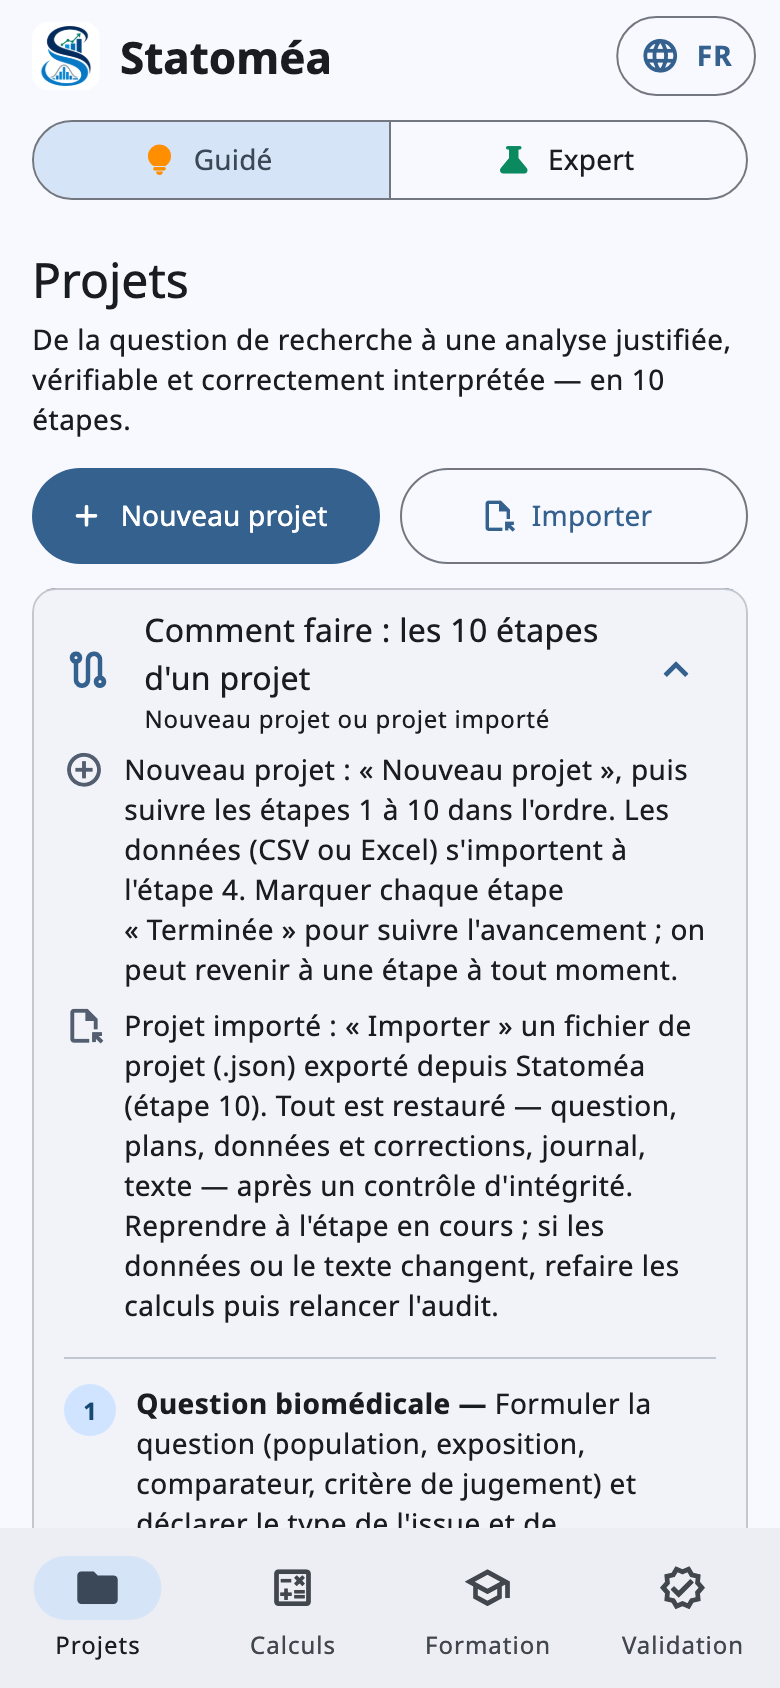
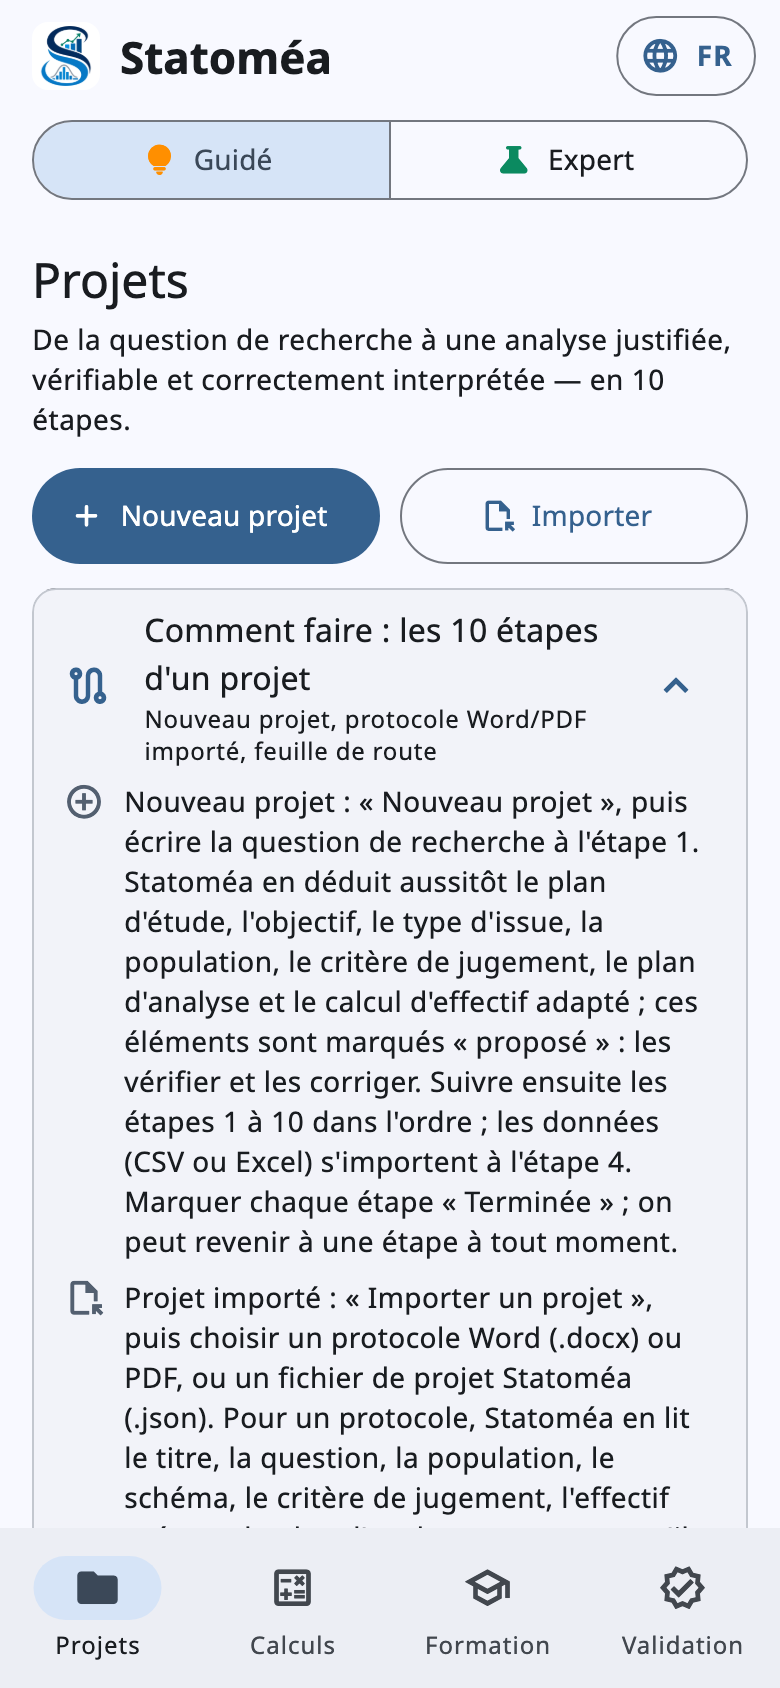
docs(app): « Comment faire » à jour — import Word/PDF, étapes proposées, feuille de route (1.56.2)

Changed region(s): [[0.0615, 0.4005, 0.8923, 0.9242], [0.0923, 0.3697, 0.1538, 0.4929], [0.0923, 0.5853, 0.1231, 0.6161]]

diff --git a/packages/statomea_core/lib/src/project/project.dart b/packages/statomea_core/lib/src/project/project.dart
@@ -53,13 +53,18 @@ String stepHint(Step s) => switch (s) {
 
 /// Démarrer un nouveau projet.
 String get guideNewProject => tr(
-    'Nouveau projet : « Nouveau projet », puis suivre les étapes 1 à 10 dans l\'ordre. Les données (CSV ou Excel) s\'importent à l\'étape 4. Marquer chaque étape « Terminée » pour suivre l\'avancement ; on peut revenir à une étape à tout moment.',
-    'New project: "New project", then follow steps 1 to 10 in order. Data (CSV or Excel) are imported at step 4. Mark each step "Done" to track progress; you can return to any step at any time.');
+    'Nouveau projet : « Nouveau projet », puis écrire la question de recherche à l\'étape 1. Statoméa en déduit aussitôt le plan d\'étude, l\'objectif, le type d\'issue, la population, le critère de jugement, le plan d\'analyse et le calcul d\'effectif adapté ; ces éléments sont marqués « proposé » : les vérifier et les corriger. Suivre ensuite les étapes 1 à 10 dans l\'ordre ; les données (CSV ou Excel) s\'importent à l\'étape 4. Marquer chaque étape « Terminée » ; on peut revenir à une étape à tout moment.',
+    'New project: "New project", then write the research question at step 1. Statoméa immediately infers the study design, aim, outcome type, population, outcome, analysis plan and the appropriate sample-size calculation; these are marked "proposed": check and correct them. Then follow steps 1 to 10 in order; data (CSV or Excel) are imported at step 4. Mark each step "Done"; you can return to any step at any time.');
 
-/// Reprendre un projet importé.
+/// Projet importé : protocole Word/PDF ou fichier de projet Statoméa.
 String get guideImportedProject => tr(
-    'Projet importé : « Importer » un fichier de projet (.json) exporté depuis Statoméa (étape 10). Tout est restauré — question, plans, données et corrections, journal, texte — après un contrôle d\'intégrité. Reprendre à l\'étape en cours ; si les données ou le texte changent, refaire les calculs puis relancer l\'audit.',
-    'Imported project: "Import" a project file (.json) exported from Statoméa (step 10). Everything is restored — question, plans, data and corrections, log, text — after an integrity check. Resume at the current step; if the data or the text change, redo the computations and run the audit again.');
+    'Projet importé : « Importer un projet », puis choisir un protocole Word (.docx) ou PDF, ou un fichier de projet Statoméa (.json). Pour un protocole, Statoméa en lit le titre, la question, la population, le schéma, le critère de jugement, l\'effectif prévu et le plan d\'analyse, montre ce qu\'il a compris, puis crée le projet et ouvre la feuille de route des 10 étapes dans l\'ordre. Un fichier .json (exporté à l\'étape 10) restaure tout — question, plans, données, journal, texte — après un contrôle d\'intégrité.',
+    'Imported project: "Import a project", then choose a Word (.docx) or PDF protocol, or a Statoméa project file (.json). For a protocol, Statoméa reads the title, question, population, design, outcome, planned sample size and analysis plan, shows what it understood, then creates the project and opens the roadmap of the 10 steps in order. A .json file (exported at step 10) restores everything — question, plans, data, log, text — after an integrity check.');
+
+/// Feuille de route et protocole prérédigé.
+String get guideRoadmap => tr(
+    'Feuille de route : bouton « Feuille de route » (icône d\'itinéraire) dans un projet. Elle donne les 10 étapes, ce qui est fait, ce qui est proposé et ce qui reste à faire ; « Calculer l\'effectif » ouvre le bon calculateur ; « Imprimer / PDF » l\'imprime. « Protocole (Word) » et « Protocole (PDF) » produisent un protocole prérédigé en 13 rubriques (format comité d\'éthique) : les passages surlignés « [À compléter : …] » sont à rédiger par le chercheur.',
+    'Roadmap: "Roadmap" button (route icon) in a project. It lists the 10 steps, what is done, what is proposed and what remains; "Compute the sample size" opens the right calculator; "Print / PDF" prints it. "Protocol (Word)" and "Protocol (PDF)" produce a pre-drafted protocol in 13 sections (ethics committee format): highlighted "[To complete: …]" passages are for the researcher to write.');
 
 /// Empreinte FNV-1a 32 bits (identifie une version de données dans le journal).
 String fingerprint(String s) {

diff --git a/deploy/landing/index.html b/deploy/landing/index.html
@@ -130,7 +130,7 @@
         <span data-fr="Français et anglais" data-en="French and English">Français et anglais</span>
       </div>
     </div>
-    <div class="phone"><img src="captures/mobile-01-accueil.png?v=9" alt="Écran d'accueil de Statoméa sur téléphone" width="390" height="844"></div>
+    <div class="phone"><img src="captures/mobile-01-accueil.png?v=10" alt="Écran d'accueil de Statoméa sur téléphone" width="390" height="844"></div>
   </div>
 </section>
 
@@ -188,14 +188,14 @@
     <h2 data-fr="Aperçu" data-en="Preview">Aperçu</h2>
     <p class="sub" data-fr="Captures de l'application réelle, sur téléphone." data-en="Screenshots of the real app, on a phone.">Captures de l'application réelle, sur téléphone.</p>
     <div class="shots">
-      <figure><img loading="lazy" src="captures/mobile-05-forest.png?v=9" alt="Forest plot" width="390" height="844"><figcaption data-fr="Métaanalyse" data-en="Meta-analysis">Métaanalyse</figcaption></figure>
-      <figure><img loading="lazy" src="captures/mobile-11-survie.png?v=9" alt="Incidence cumulée" width="390" height="844"><figcaption data-fr="Risques concurrents" data-en="Competing risks">Risques concurrents</figcaption></figure>
-      <figure><img loading="lazy" src="captures/mobile-13-mesures-repetees.png?v=9" alt="Trajectoires individuelles" width="390" height="844"><figcaption data-fr="Mesures répétées" data-en="Repeated measures">Mesures répétées</figcaption></figure>
-      <figure><img loading="lazy" src="captures/mobile-12-puissance.png?v=9" alt="Courbe de puissance" width="390" height="844"><figcaption data-fr="Puissance" data-en="Power">Puissance</figcaption></figure>
-      <figure><img loading="lazy" src="captures/mobile-09-gwas.png?v=9" alt="Manhattan plot" width="390" height="844"><figcaption data-fr="GWAS" data-en="GWAS">GWAS</figcaption></figure>
-      <figure><img loading="lazy" src="captures/mobile-10-causalite.png?v=9" alt="Randomisation mendélienne" width="390" height="844"><figcaption data-fr="Causalité" data-en="Causality">Causalité</figcaption></figure>
-      <figure><img loading="lazy" src="captures/mobile-07-audit.png?v=9" alt="Audit" width="390" height="844"><figcaption data-fr="Audit" data-en="Audit">Audit</figcaption></figure>
-      <figure><img loading="lazy" src="captures/mobile-08-lecon.png?v=9" alt="Leçon" width="390" height="844"><figcaption data-fr="Leçon" data-en="Lesson">Leçon</figcaption></figure>
+      <figure><img loading="lazy" src="captures/mobile-05-forest.png?v=10" alt="Forest plot" width="390" height="844"><figcaption data-fr="Métaanalyse" data-en="Meta-analysis">Métaanalyse</figcaption></figure>
+      <figure><img loading="lazy" src="captures/mobile-11-survie.png?v=10" alt="Incidence cumulée" width="390" height="844"><figcaption data-fr="Risques concurrents" data-en="Competing risks">Risques concurrents</figcaption></figure>
+      <figure><img loading="lazy" src="captures/mobile-13-mesures-repetees.png?v=10" alt="Trajectoires individuelles" width="390" height="844"><figcaption data-fr="Mesures répétées" data-en="Repeated measures">Mesures répétées</figcaption></figure>
+      <figure><img loading="lazy" src="captures/mobile-12-puissance.png?v=10" alt="Courbe de puissance" width="390" height="844"><figcaption data-fr="Puissance" data-en="Power">Puissance</figcaption></figure>
+      <figure><img loading="lazy" src="captures/mobile-09-gwas.png?v=10" alt="Manhattan plot" width="390" height="844"><figcaption data-fr="GWAS" data-en="GWAS">GWAS</figcaption></figure>
+      <figure><img loading="lazy" src="captures/mobile-10-causalite.png?v=10" alt="Randomisation mendélienne" width="390" height="844"><figcaption data-fr="Causalité" data-en="Causality">Causalité</figcaption></figure>
+      <figure><img loading="lazy" src="captures/mobile-07-audit.png?v=10" alt="Audit" width="390" height="844"><figcaption data-fr="Audit" data-en="Audit">Audit</figcaption></figure>
+      <figure><img loading="lazy" src="captures/mobile-08-lecon.png?v=10" alt="Leçon" width="390" height="844"><figcaption data-fr="Leçon" data-en="Lesson">Leçon</figcaption></figure>
     </div>
   </div>
 </section>

diff --git a/app/statomea/lib/screens/projects_screen.dart b/app/statomea/lib/screens/projects_screen.dart
@@ -306,11 +306,11 @@ class _StepsGuide extends StatelessWidget {
         initiallyExpanded: empty,
         leading: Icon(Icons.route_outlined, color: theme.colorScheme.primary),
         title: Text(tr('Comment faire : les 10 étapes d\'un projet', 'How it works: the 10 steps of a project'), style: theme.textTheme.titleMedium),
-        subtitle: Text(tr('Nouveau projet ou projet importé', 'New or imported project'), style: theme.textTheme.bodySmall),
+        subtitle: Text(tr('Nouveau projet, protocole Word/PDF importé, feuille de route', 'New project, imported Word/PDF protocol, roadmap'), style: theme.textTheme.bodySmall),
         childrenPadding: const EdgeInsets.fromLTRB(16, 0, 16, 16),
         expandedCrossAxisAlignment: CrossAxisAlignment.start,
         children: [
-          for (final (icon, text) in [(Icons.add_circle_outline, guideNewProject), (Icons.file_open_outlined, guideImportedProject)])
+          for (final (icon, text) in [(Icons.add_circle_outline, guideNewProject), (Icons.file_open_outlined, guideImportedProject), (Icons.route_outlined, guideRoadmap)])
             Padding(
               padding: const EdgeInsets.only(bottom: 8),
               child: Row(crossAxisAlignment: CrossAxisAlignment.start, children: [

diff --git a/app/statomea/lib/app_version.dart b/app/statomea/lib/app_version.dart
@@ -1,3 +1,3 @@
 /// Version de l'application, identique à celle de pubspec.yaml (vérifié par test/app_version_test.dart) ; sert à
 /// comparer avec la version publiée en ligne.
-const appVersion = '1.56.1';
+const appVersion = '1.56.2';

diff --git a/packages/statomea_core/lib/src/version.dart b/packages/statomea_core/lib/src/version.dart
@@ -2,4 +2,4 @@
 library;
 
 const String engineName = 'statomea_core';
-const String engineVersion = '1.56.1';
+const String engineVersion = '1.56.2';

diff --git a/docs/07-etat-et-feuille-de-route.md b/docs/07-etat-et-feuille-de-route.md
@@ -1,6 +1,6 @@
 # 07 — État du projet : opérationnel, testé, en développement
 
-État au 18 octobre 2026, moteur 1.56.1.
+État au 18 octobre 2026, moteur 1.56.2.
 
 ## Étape par étape
 
